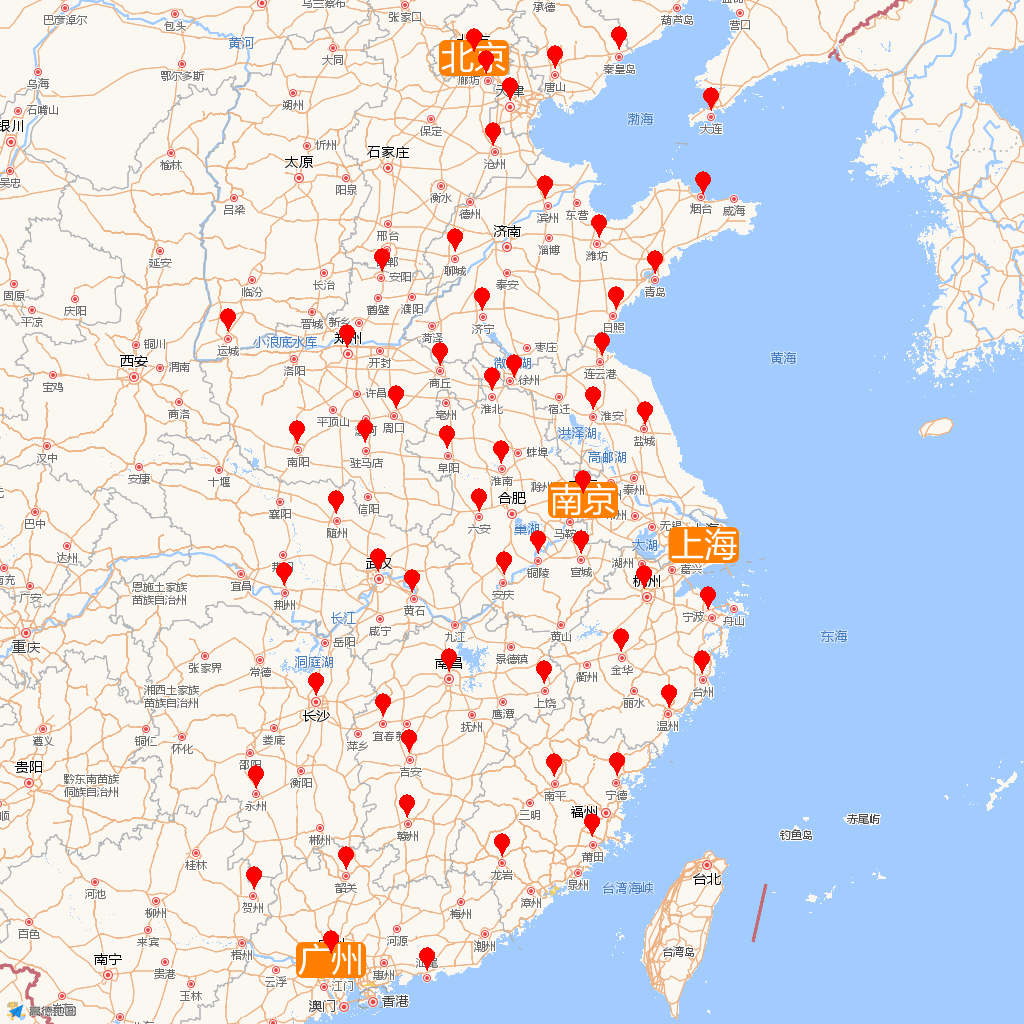
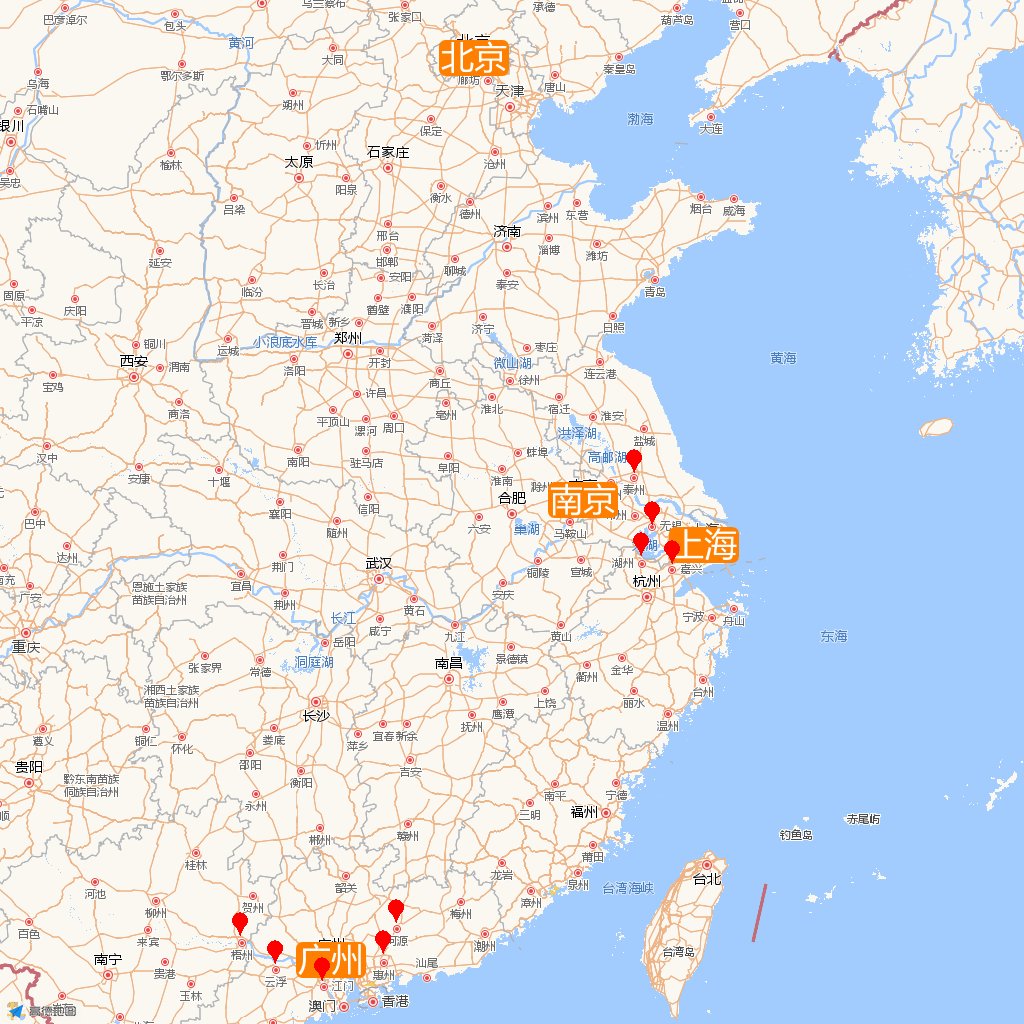
finished which has enough cities and is able to change the total years

diff --git a/function.py b/function.py
@@ -337,7 +337,7 @@ def mark_the_cities(pic_name,city_txt,creat_new=False):
     city_list=_get_all_city(city_txt)
     _mark_all_city(city_list,pic_name)
 ########################################################
-def deal_with_lingo_data(landPrice_txt,write_type='w'):
+def deal_with_lingo_data(landPrice_txt,write_type='w',start_number=1):
     """
     ###
     将landPrice.txt文件中的城市及地价和面积做成lingo可以读取的txt文件格式
@@ -383,8 +383,8 @@ def deal_with_lingo_data(landPrice_txt,write_type='w'):
             construction_price.append((one_city[0],price))
             city_list.append(one_city[0])
         ##
-    _write_lingo_data('lingo_factory_supply.txt',factory_supply,write_type=write_type)
-    _write_lingo_data('lingo_construction_price.txt',construction_price,write_type=write_type)
+    _write_lingo_data('lingo_factory_supply.txt',factory_supply,write_type=write_type,start_number=start_number)
+    _write_lingo_data('lingo_construction_price.txt',construction_price,write_type=write_type,start_number=start_number)
     _write_lingo_cij('lingo_transportation_cij.txt',city_list,write_type=write_type)
     n=0
     lingo_k=[]
@@ -393,7 +393,7 @@ def deal_with_lingo_data(landPrice_txt,write_type='w'):
         k='{:.4f}'.format(k)
         lingo_k.append((construction_price[n][0],k))
         n=n+1
-    _write_lingo_data('lingo_k.txt',lingo_k,write_type=write_type)
+    _write_lingo_data('lingo_k.txt',lingo_k,write_type=write_type,start_number=start_number)
     #lingo_k为每万辆的工程建设成本
     fp=open('all_city.txt','w')
     city_set=set(city_list)
@@ -402,7 +402,7 @@ def deal_with_lingo_data(landPrice_txt,write_type='w'):
     fp.close()
     
 
-def _write_lingo_data(data_name_txt,python_data,write_type='w'):
+def _write_lingo_data(data_name_txt,python_data,write_type='w',start_number=1):
     """
     python_data为列表，每个列表元素为(城市名,data)
     """
@@ -413,7 +413,8 @@ def _write_lingo_data(data_name_txt,python_data,write_type='w'):
         fp=open(data_name_txt,'a')
         
     for i in range(len(python_data)):
-        fp.write('!index:{} city:{};\n'.format(i+1,python_data[i][0]))
+        fp.write('!index:{} city:{};\n'.format(start_number,python_data[i][0]))
+        start_number += 1
         #注明序号和城市名
         fp.write('{}\n'.format(python_data[i][1]))
     fp.close()
@@ -460,13 +461,12 @@ def _write_lingo_cij(data_name_txt,city_list,write_type='w'):
 ########################################################
 if __name__=='__main__':
     global mark_size
-    mark_size='mid'
+    mark_size='large'
     #large mid small
     
-    
     #mark_the_cities('Final_city.png','the_city.txt',creat_new=True)
-    #deal_with_lingo_data('landPrice.txt',write_type='a')
-    #mark_the_cities('All_city.png','all_city.txt',creat_new=True)
+    #deal_with_lingo_data('add_city.txt',write_type='a',start_number=115)
+    mark_the_cities('All_city_1year.png','all_city.txt',creat_new=True)
 
-
+    print('all finished')
     pass
